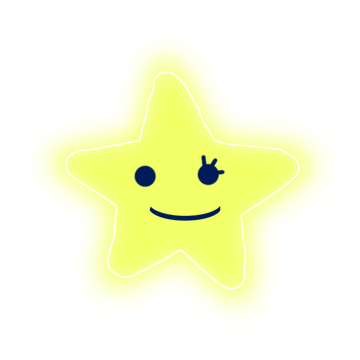
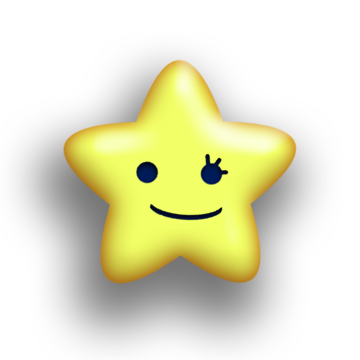
change the design and lookfir bug

diff --git a/easyFollow/mainViewController.m b/easyFollow/mainViewController.m
@@ -139,7 +139,8 @@ BOOL isBlink = NO;
 - (void)makeDoubleStarAppearWithName:(NSString *)name{
     [self makeStarBlink:NO];
     CGRect frame = _starViewNormal.frame;
-    frame.origin.x = 16;
+    frame.origin.x = 23;
+    frame.origin.y -= 4;
     [gAnimation moveView:_starViewNormal toFinalFrame:frame withDuration:2*starRotateCycle];
     
     _starViewDynamic.alpha = 1.0;
@@ -306,9 +307,9 @@ BOOL isBlink = NO;
         //get friend json from server
         NSDictionary *feedback = [[NSDictionary alloc] initWithDictionary:JSON];
         NSString *result = [feedback objectForKey:@"result"];
-        NSString *name = [[feedback objectForKey:@"nearby"] objectForKey:@"name"];
         if ([result isEqualToString:@"sucess"]){
             //show person view with feedback data
+            NSString *name = [[feedback objectForKey:@"nearby"] objectForKey:@"name"];
             _personViewController = [[foundPersonViewController alloc] initWithNibName:@"foundPersonViewController" bundle:nil withData:[feedback objectForKey:@"nearby"]];
             [self makeDoubleStarAppearWithName:name];
         }

diff --git a/easyFollow/goshanAppDelegate.m b/easyFollow/goshanAppDelegate.m
@@ -29,7 +29,7 @@
     // Override point for customization after application launch.
     mainViewController *main = [[[mainViewController alloc] initWithNibName:@"mainViewController" bundle:nil] autorelease];
     _navController = [[UINavigationController alloc] initWithRootViewController:main];
-    [_navController.navigationBar setBackgroundImage:[UIImage imageNamed:@"navigation_bg"] forBarMetrics:UIBarMetricsDefault];
+    [_navController.navigationBar setBackgroundImage:[UIImage imageNamed:@"navigation_bg1"] forBarMetrics:UIBarMetricsDefault];
     [self.window addSubview:_navController.view];
     
     [self.window makeKeyAndVisible];

diff --git a/easyFollow/registViewController.m b/easyFollow/registViewController.m
@@ -260,7 +260,7 @@ BOOL waiting = YES;
 {
     [super viewDidLoad];
     // Do any additional setup after loading the view from its nib.
-    [_navigationBar setBackgroundImage:[UIImage imageNamed:@"navigation_bg"] forBarMetrics:UIBarMetricsDefault];
+    [_navigationBar setBackgroundImage:[UIImage imageNamed:@"navigation_bg1"] forBarMetrics:UIBarMetricsDefault];
     _navigationTitle.title = @"绑定信息";
     _registButton.title = @"完成";
     [_registButton setBackgroundImage:[UIImage imageNamed:@"navigation_item_bg"] forState:UIControlStateNormal barMetrics:UIBarMetricsDefault];

diff --git a/easyFollow/foundPersonViewController.m b/easyFollow/foundPersonViewController.m
@@ -41,9 +41,7 @@
     [_tips showFollowLoadingWith:self.view];
     
     NSUserDefaults *defaults = [NSUserDefaults standardUserDefaults];
-    NSString *server_ip = [defaults objectForKey:@"server_ip"];
-    NSString *url_str = [NSString stringWithFormat:@"http://%@", server_ip];
-    NSURL *url = [NSURL URLWithString:url_str];
+    NSURL *url = [NSURL URLWithString:SERVER_URL];
     AFHTTPClient *httpClient = [[[AFHTTPClient alloc] initWithBaseURL:url]autorelease];
     
     NSString *token = [defaults objectForKey:@"gsf_token"];

diff --git a/easyFollow/Util.m b/easyFollow/Util.m
@@ -12,7 +12,7 @@
 NSString* const SERVER_URL = @"http://localhost:3000";
 #else
 NSString* const SERVER_URL = @"http://easy-follow.com";
-#endif    
+#endif
 
 NSString *const RENREN_APPID = @"214568";
 NSString *const RENREN_APIKEY = @"a68774405e5d43fca919fe2436f07fcf";
